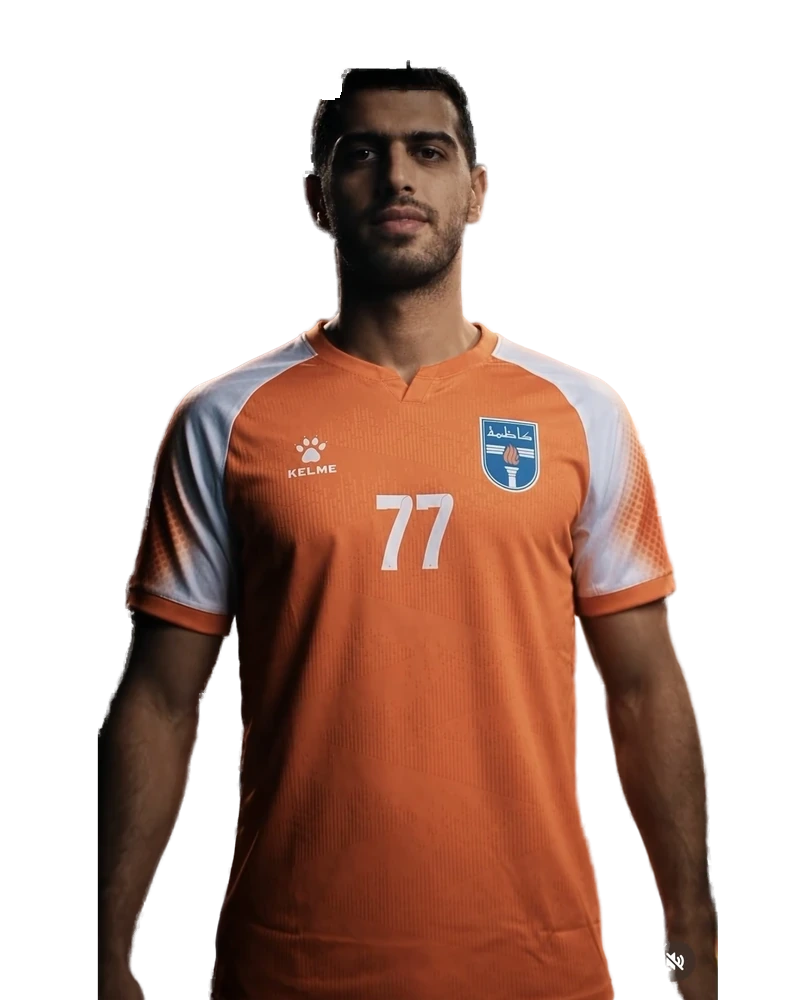
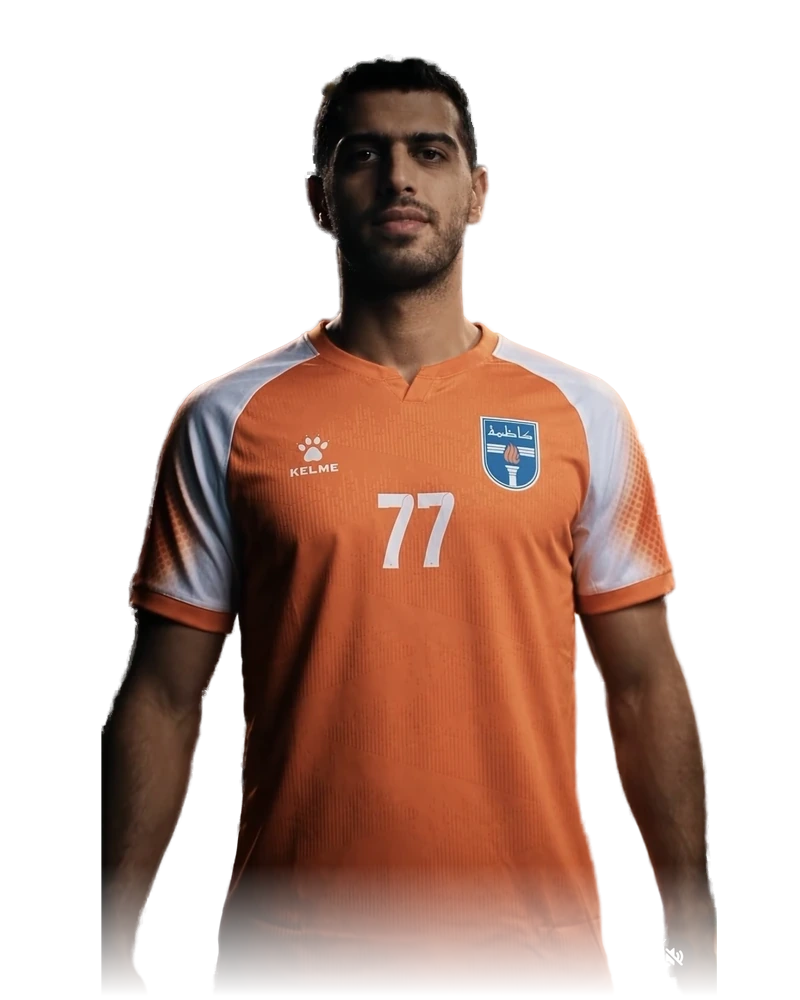
كاظمة 77 بدر طارق: إعادة قصّ الشعر (إزالة نص إنستغرام بالترميم بدل التغطية) — صور ?v=10، sw -80، fantasy 206

diff --git a/fantasy/index.html b/fantasy/index.html
@@ -12,7 +12,7 @@
 <link rel="preconnect" href="https://fonts.googleapis.com">
 <link rel="preconnect" href="https://fonts.gstatic.com" crossorigin>
 <link href="https://fonts.googleapis.com/css2?family=Vazirmatn:wght@300;400;500;600;700;800&display=swap" rel="stylesheet">
-<link rel="stylesheet" href="css/style.css?v=205">
+<link rel="stylesheet" href="css/style.css?v=206">
 <script src="https://cdnjs.cloudflare.com/ajax/libs/firebase/10.12.2/firebase-app-compat.min.js"></script>
 <script src="https://cdnjs.cloudflare.com/ajax/libs/firebase/10.12.2/firebase-auth-compat.min.js"></script>
 <script src="https://cdnjs.cloudflare.com/ajax/libs/firebase/10.12.2/firebase-firestore-compat.min.js"></script>
@@ -20,13 +20,13 @@
 </head>
 <body>
   <div id="splash">
-    <div class="splash-card"><img class="splash-logo" src="assets/logo-light.png?v=205" alt="Kuwait Fantasy League"></div>
+    <div class="splash-card"><img class="splash-logo" src="assets/logo-light.png?v=206" alt="Kuwait Fantasy League"></div>
   </div>
 
   <header id="topbar" style="display:none">
     <div id="brand" onclick="APP.go('dashboard')">
-      <img class="brand-lockup lk-dark" src="assets/logo-dark.png?v=205" alt="Kuwait Fantasy League">
-      <img class="brand-lockup lk-light" src="assets/logo-light.png?v=205" alt="Kuwait Fantasy League">
+      <img class="brand-lockup lk-dark" src="assets/logo-dark.png?v=206" alt="Kuwait Fantasy League">
+      <img class="brand-lockup lk-light" src="assets/logo-light.png?v=206" alt="Kuwait Fantasy League">
     </div>
     <a id="toSite" href="/" title="العودة للموقع">
       <svg viewBox="0 0 24 24" width="16" height="16" fill="none" stroke="currentColor" stroke-width="2.2" stroke-linecap="round" stroke-linejoin="round" aria-hidden="true"><path d="M9 6l6 6-6 6"/></svg>
@@ -41,28 +41,28 @@
   <nav id="bottomnav"></nav>
   <div id="toasts"></div>
 
-  <script src="js/cloud.js?v=205"></script>
-  <script src="js/data.js?v=205"></script>
-  <script src="js/engine.js?v=205"></script>
-  <script src="js/ui.js?v=205"></script>
-  <script src="js/photos.js?v=205"></script>
-  <script src="js/kits.js?v=205"></script>
-  <script src="js/kits-number.js?v=205"></script>
-  <script src="js/moderation.js?v=205"></script>
-  <script src="js/views.js?v=205"></script>
-  <script src="js/picker.js?v=205"></script>
-  <script src="js/extras.js?v=205"></script>
-  <script src="js/push.js?v=205"></script>
-  <script src="js/adminauth.js?v=205"></script>
-  <script src="js/admin.js?v=205"></script>
-  <script src="js/guide.js?v=205"></script>
-  <script src="js/live-gw.js?v=205"></script>
-  <script src="js/points.js?v=205"></script>
-  <script src="js/mfsync.js?v=205"></script>
-  <script src="js/roster-sync.js?v=205"></script>
-  <script src="js/app.js?v=205"></script>
-  <script src="js/i18n.js?v=205"></script>
-  <script src="js/i18n-more.js?v=205"></script>
-  <script src="js/gate.js?v=205"></script>
+  <script src="js/cloud.js?v=206"></script>
+  <script src="js/data.js?v=206"></script>
+  <script src="js/engine.js?v=206"></script>
+  <script src="js/ui.js?v=206"></script>
+  <script src="js/photos.js?v=206"></script>
+  <script src="js/kits.js?v=206"></script>
+  <script src="js/kits-number.js?v=206"></script>
+  <script src="js/moderation.js?v=206"></script>
+  <script src="js/views.js?v=206"></script>
+  <script src="js/picker.js?v=206"></script>
+  <script src="js/extras.js?v=206"></script>
+  <script src="js/push.js?v=206"></script>
+  <script src="js/adminauth.js?v=206"></script>
+  <script src="js/admin.js?v=206"></script>
+  <script src="js/guide.js?v=206"></script>
+  <script src="js/live-gw.js?v=206"></script>
+  <script src="js/points.js?v=206"></script>
+  <script src="js/mfsync.js?v=206"></script>
+  <script src="js/roster-sync.js?v=206"></script>
+  <script src="js/app.js?v=206"></script>
+  <script src="js/i18n.js?v=206"></script>
+  <script src="js/i18n-more.js?v=206"></script>
+  <script src="js/gate.js?v=206"></script>
 </body>
 </html>

diff --git a/sw.js b/sw.js
@@ -9,7 +9,7 @@
 
    عند كل نشر: ارفع رقم VER فتُبنى ذاكرة جديدة وتُحذف القديمة.
    ========================================================= */
-const VER   = 'mf-2026-09-15-79';
+const VER   = 'mf-2026-09-15-80';
 const SHELL = 'shell-' + VER;
 const RUN   = 'run-'   + VER;
 

diff --git a/fantasy/js/photos.js b/fantasy/js/photos.js
@@ -4,7 +4,7 @@
 'use strict';
 
 /* رقم نسخة الصور: ارفعه عند إعادة توليد أي قصّة حتى لا يبقى المتصفح على النسخة القديمة */
-const PLAYER_PHOTOS_VER = '9';
+const PLAYER_PHOTOS_VER = '10';
 
 const PLAYER_PHOTOS = {
   // الصليبخات (17)
